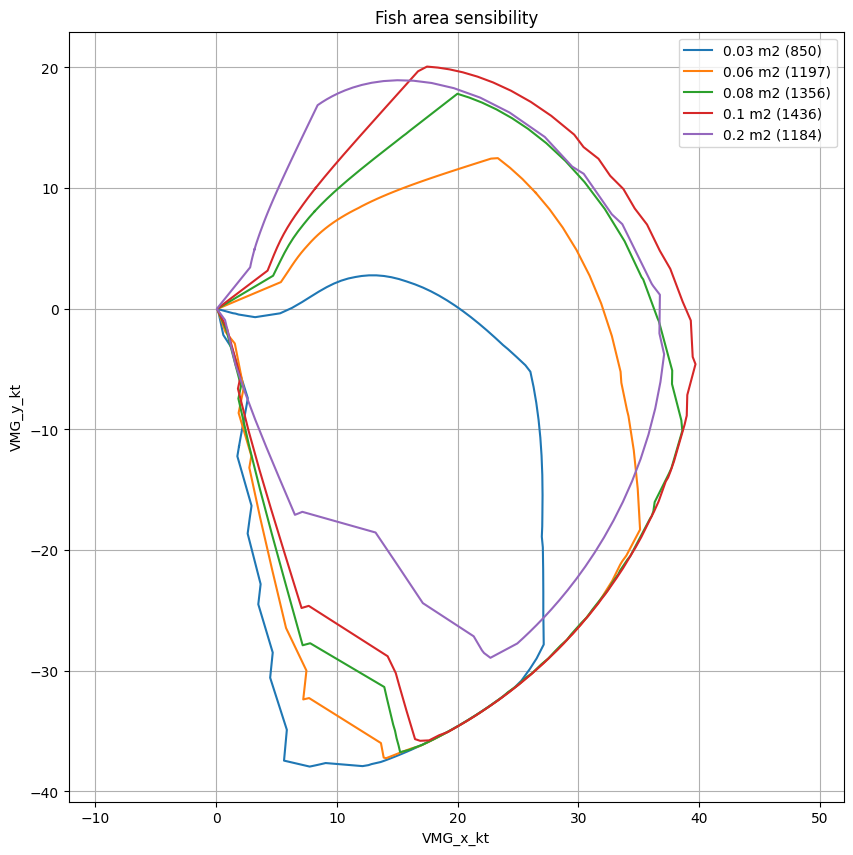
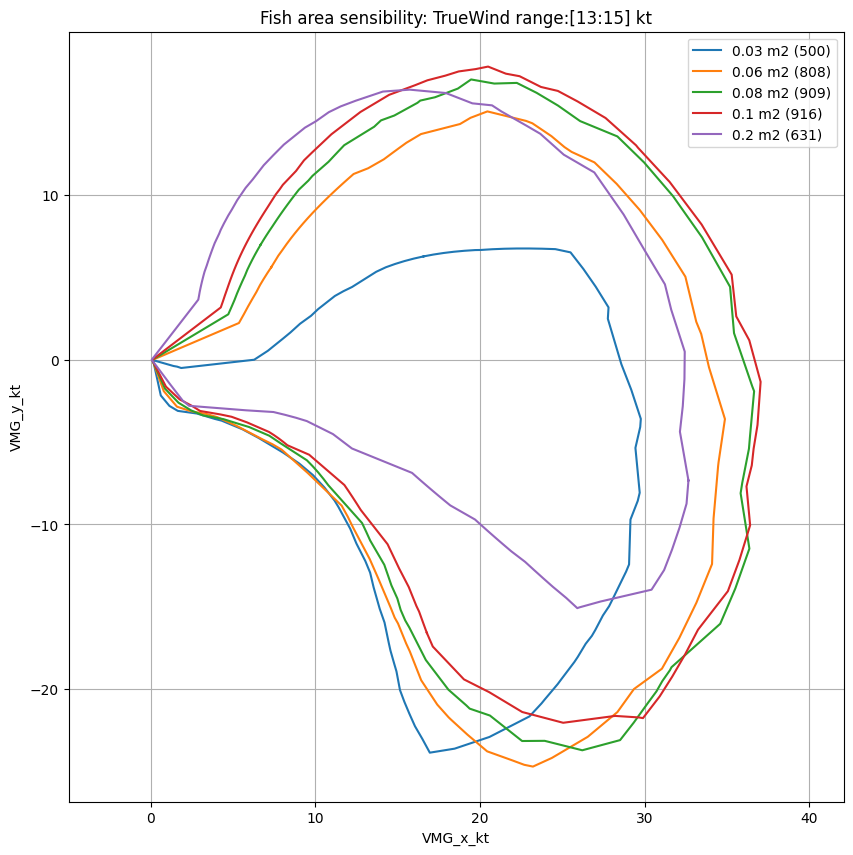
update requirements

diff --git a/explore.py b/explore.py
@@ -44,25 +44,57 @@ dfM = proj.create_df()
 df1 = dfM[dfM["fk_name"] == "fk1"]
 
 
+wind_min = 13
+wind_max = 15
 # %% loop kite
 list_result = []
-for k_area in [10, 20, 25, 30, 40]:
+for k_area in [10, 15, 20, 25, 30, 40]:
+    print(f"compute {k_area}")
     fk1.kite._flat_area = k_area
     dfi = fk1.create_df()
-    dfvalid = dfi[dfi["isValid"]]
+    dfvalid = dfi[
+        (dfi["isValid"])
+        & (dfi["true_wind_calculated_kt"].between(wind_min, wind_max, inclusive="both"))
+    ]
     lst_pt_i = dfvalid[["vmg_x_kt", "vmg_y_kt"]].to_numpy()
     alpha_shape_i = alphashape.alphashape(lst_pt_i, 0.2)
     list_result.append({"area": k_area, "shape": alpha_shape_i})
 
 print("end loop")
 
+
+# %%  plot kite
+for r in list_result:
+    k_area = r["area"]
+    ctn = r["shape"]
+    x, y = ctn.exterior.xy
+    area_score = ctn.area
+    plt.plot(x, y, label=f"{k_area} m², ({int(area_score)})")
+
+# ax = plt.gca()
+# ax.set_aspect('equal', adjustable='box')
+plt.rcParams["figure.figsize"] = [10, 10]
+plt.axis("equal")
+plt.grid()
+plt.legend()
+plt.xlabel("VMG_x_kt")
+plt.ylabel("VMG_y_kt")
+plt.title(f"Kite area sensibility: TrueWind range:[{wind_min}:{wind_max}] kt")
+plt.show()
+
 # %% loop fish
+
+fk1 = FishKite.from_json(fk1_file)
+print(f"{fk1 =}")
 list_result_fish = []
 for k_area in [0.03, 0.06, 0.08, 0.1, 0.2]:
     print(f"compute {k_area}")
     fk1.fish._flat_area = k_area
     dfi = fk1.create_df()
-    dfvalid = dfi[dfi["isValid"]]
+    dfvalid = dfi[
+        (dfi["isValid"])
+        & (dfi["true_wind_calculated_kt"].between(wind_min, wind_max, inclusive="both"))
+    ]
     lst_pt_i = dfvalid[["vmg_x_kt", "vmg_y_kt"]].to_numpy()
     alpha_shape_i = alphashape.alphashape(lst_pt_i, 0.2)
     list_result_fish.append({"area": k_area, "shape": alpha_shape_i})
@@ -86,7 +118,7 @@ plt.grid()
 plt.legend()
 plt.xlabel("VMG_x_kt")
 plt.ylabel("VMG_y_kt")
-plt.title("Fish area sensibility")
+plt.title(f"Fish area sensibility: TrueWind range:[{wind_min}:{wind_max}] kt")
 plt.show()
 
 
